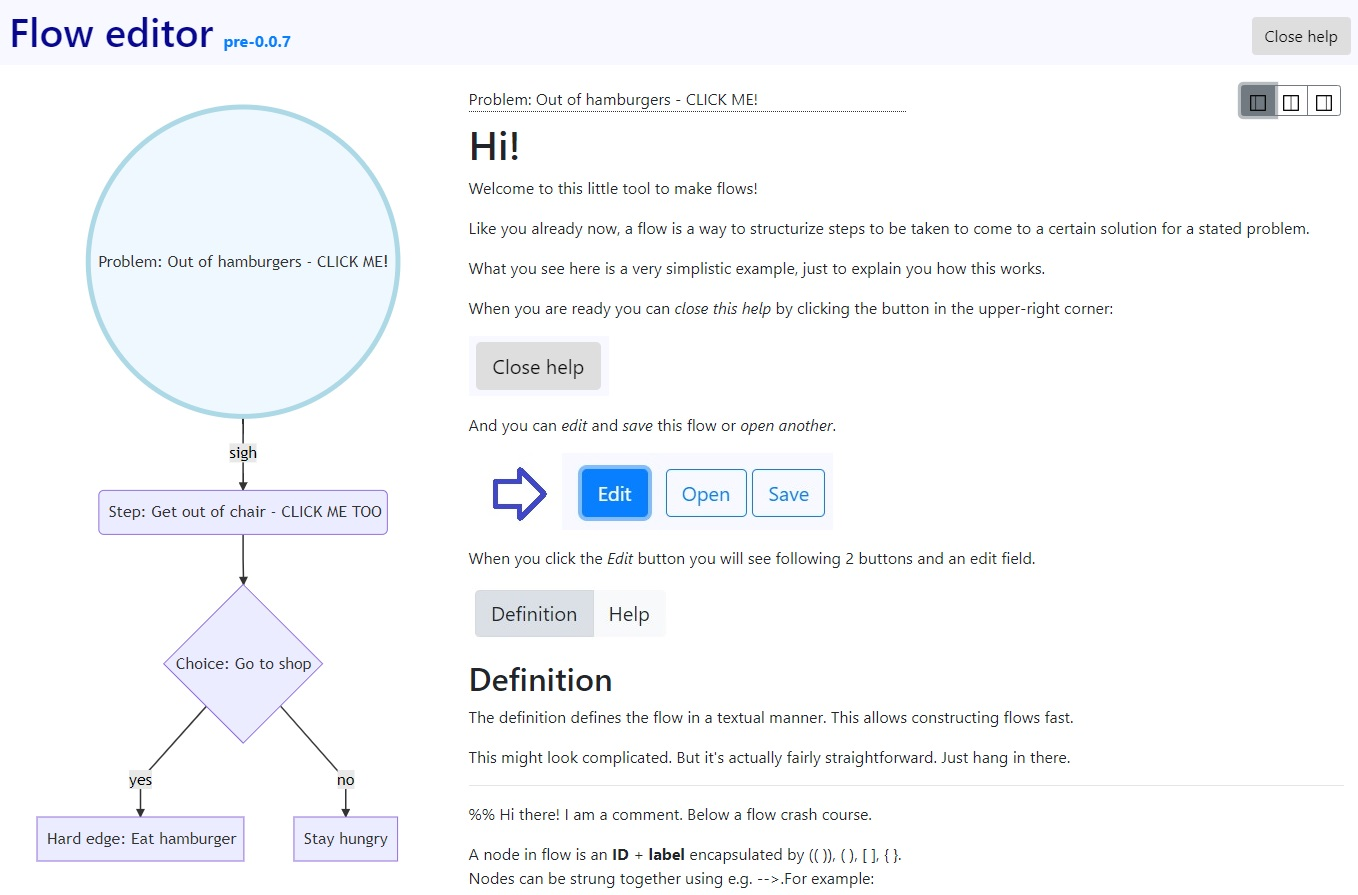
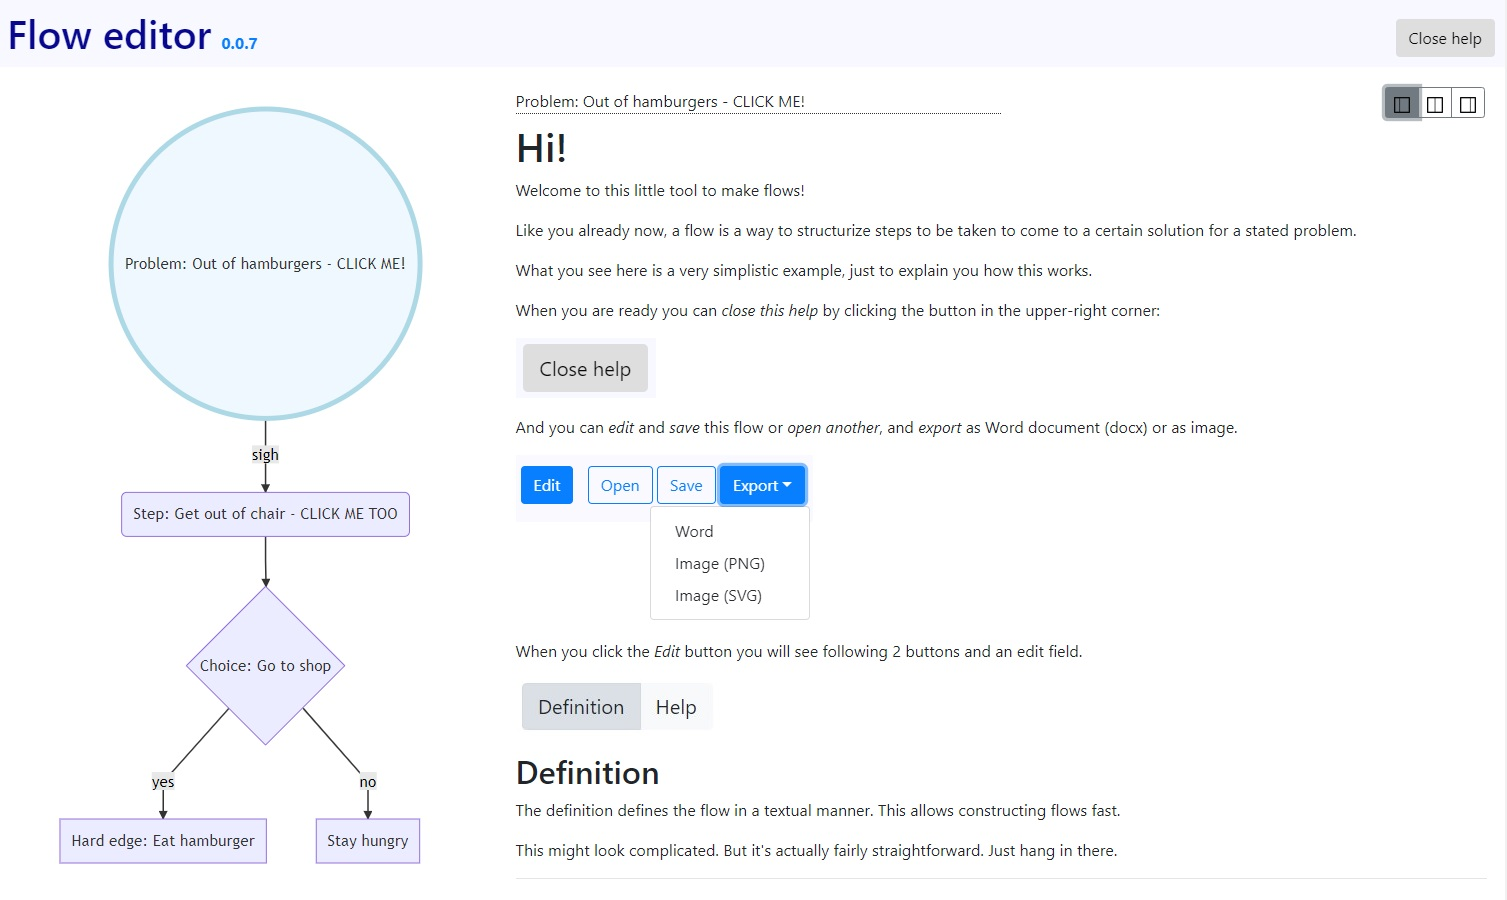
0.0.7

diff --git a/index.html b/index.html
@@ -2,7 +2,7 @@
 <html>
 
 <head>
-    <title>Flow editor pre-0.0.7</title>
+    <title>Flow editor 0.0.7</title>
     <meta charset="utf-8">
     <meta name="viewport" content="width=device-width, initial-scale=1.0">
     <link rel="apple-touch-icon" sizes="180x180" href="apple-touch-icon.png?v=gAdOdr5nJd">
@@ -21,7 +21,7 @@
 <body>
     <div id="menu">
         <span id="title">
-            <h1>Flow editor</h1><strong><a href="https://github.com/Didjeeh/floweditor" target="_blank">pre-0.0.7</a></strong>
+            <h1>Flow editor</h1><strong><a href="https://github.com/Didjeeh/floweditor" target="_blank">0.0.7</a></strong>
         </span>
         <span id="controls">
             <button class="btn btn-primary other-controls" id="edit-btn" type="button" data-toggle="button"

diff --git a/js/main.js b/js/main.js
@@ -64,9 +64,9 @@ When you are ready you can *close this help* by clicking the button in the upper
 
 ![](https://i.imgur.com/8uza0v1.png)
 
-And you can *edit* and *save* this flow or *open another*.
+And you can *edit* and *save* this flow or *open another*, and *export* as Word document (docx) or as image.
 
-![](https://i.imgur.com/uIfLhzf.png)
+![](https://i.imgur.com/qjHKZM0.png)
 
 When you click the *Edit* button you will see following 2 buttons and an edit field.
 

diff --git a/README.md b/README.md
@@ -3,6 +3,7 @@
 **Live demo [HERE](https://didjeeh.github.io/floweditor)**
 
 # Versions
+*   2019-01-10: 0.0.7     - Export to docx, png and svg
 *   2019-01-08: pre-0.0.7 - Export to docx (not yet perfect)   
 *   2019-01-07: 0.0.6     - Possible to fix node naming inconsistencies
 *   2019-01-07: pre-0.0.6 - Possible to fix node naming inconsistencies (only in 'Definition' ATM)
@@ -39,5 +40,5 @@ Sufficient help is provided in the app itself.
 *   Markdown parser:        <https://marked.js.org> and <http://showdownjs.com>
 *   SQL helper:             <https://github.com/kripken/sql.js>
 *   Saving files:           <https://github.com/eligrey/FileSaver.js>
-*   Export to javascript:	<http://evidenceprime.github.io/html-docx-js>
+*   Export to docx:			<http://evidenceprime.github.io/html-docx-js>
 *   Other javascript stuff: <https://jquery.com>
